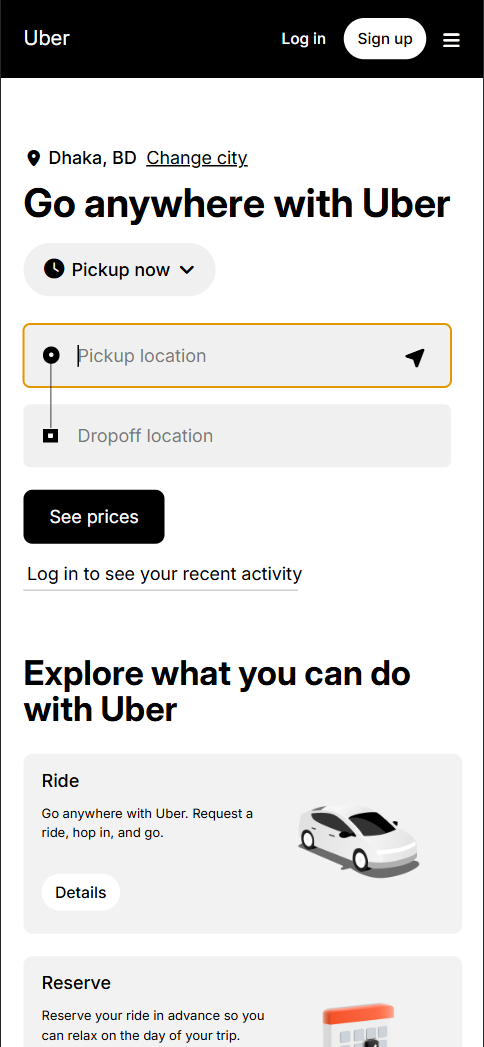
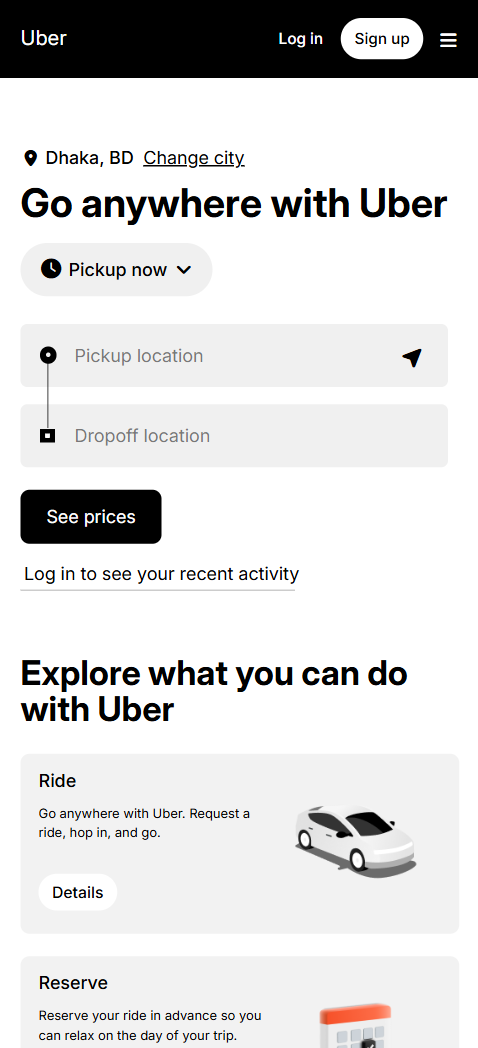
To update project structure, screenshot and live demo section

diff --git a/README.md b/README.md
@@ -20,14 +20,15 @@ A modern and responsive Uber clone built using only **HTML**, **CSS**, and **Tai
 ## 📁 Project Structure
 
 ```text
-uber-clone/                 # Project Name
-├── assets/                 # Non-Code Files
-│   ├── explore-images/     # Explore Section Images
-│   ├── images/             # Base Images
-│   ├── svg/                # SVG Files or Images
-├── README.md               # Project Documentations
-├── index.html              # HTML Codes + Tailwind CSS Codes
-└── style.css               # CSS Codes
+uber-clone/                     # Project Name
+├── assets/                     # Non-Code Files
+│   ├── explore-images/         # Explore Section Images
+│   ├── images/                 # Base Images
+│   ├── project-screenshots/    # Uber Clone Demo
+│   ├── svg/                    # SVG Files or Images
+├── README.md                   # Project Documentations
+├── index.html                  # HTML Codes + Tailwind CSS Codes
+└── style.css                   # CSS Codes
 ```
 
 ## ✨ Features
@@ -90,7 +91,7 @@ uber-clone/                 # Project Name
 
 You can check out the live preview of this project by clicking the link below:
 
-▶ [Live Preview - Upcoming]()
+▶ [Live Preview](https://dipu-ray.github.io/uber-clone/)
 
 ---
 
